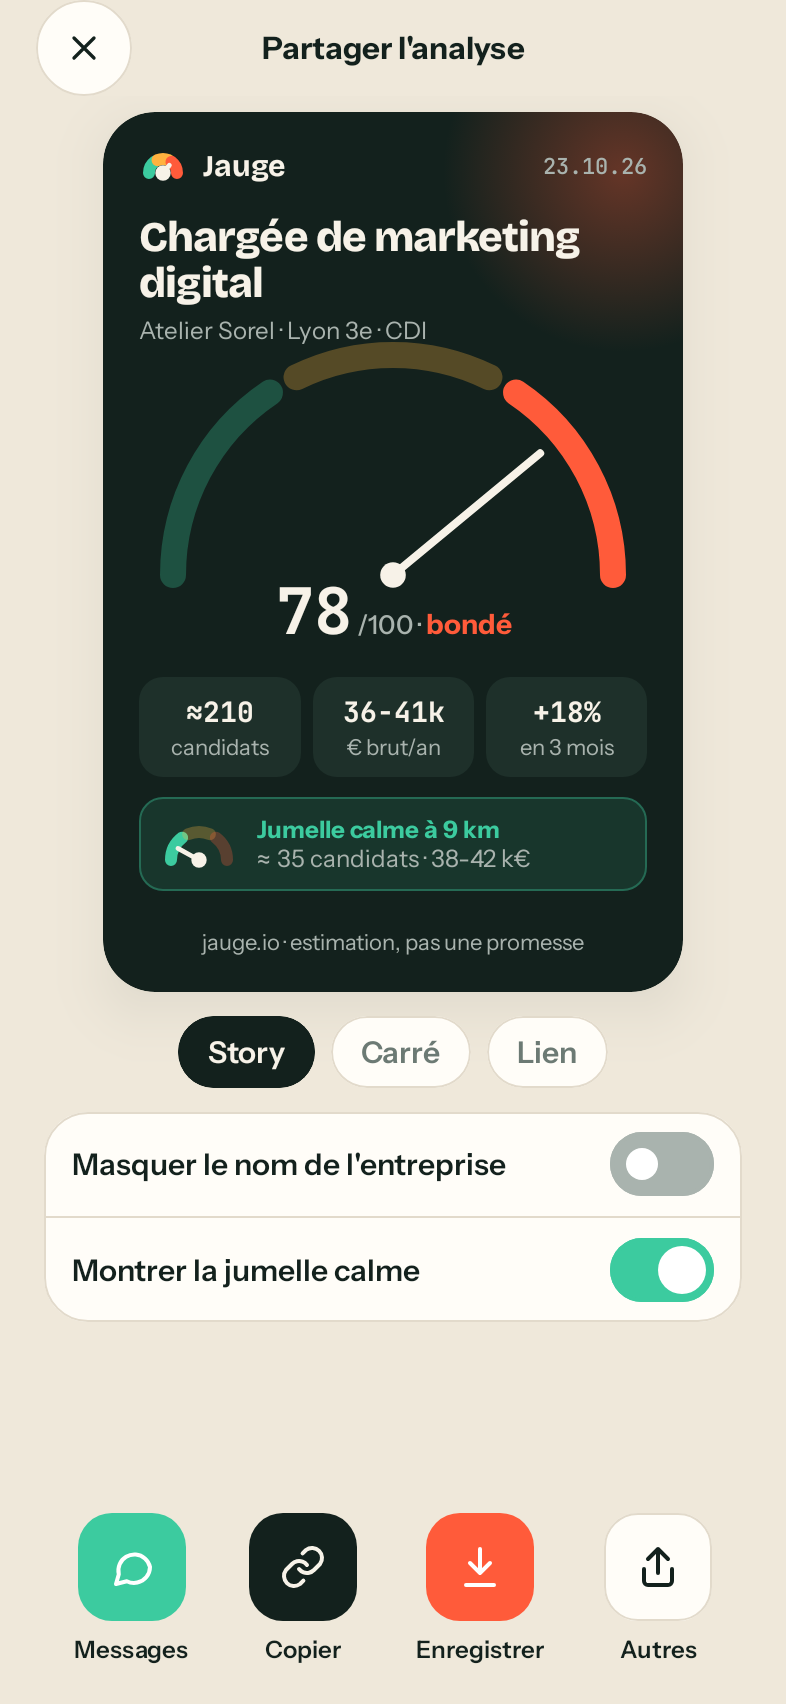
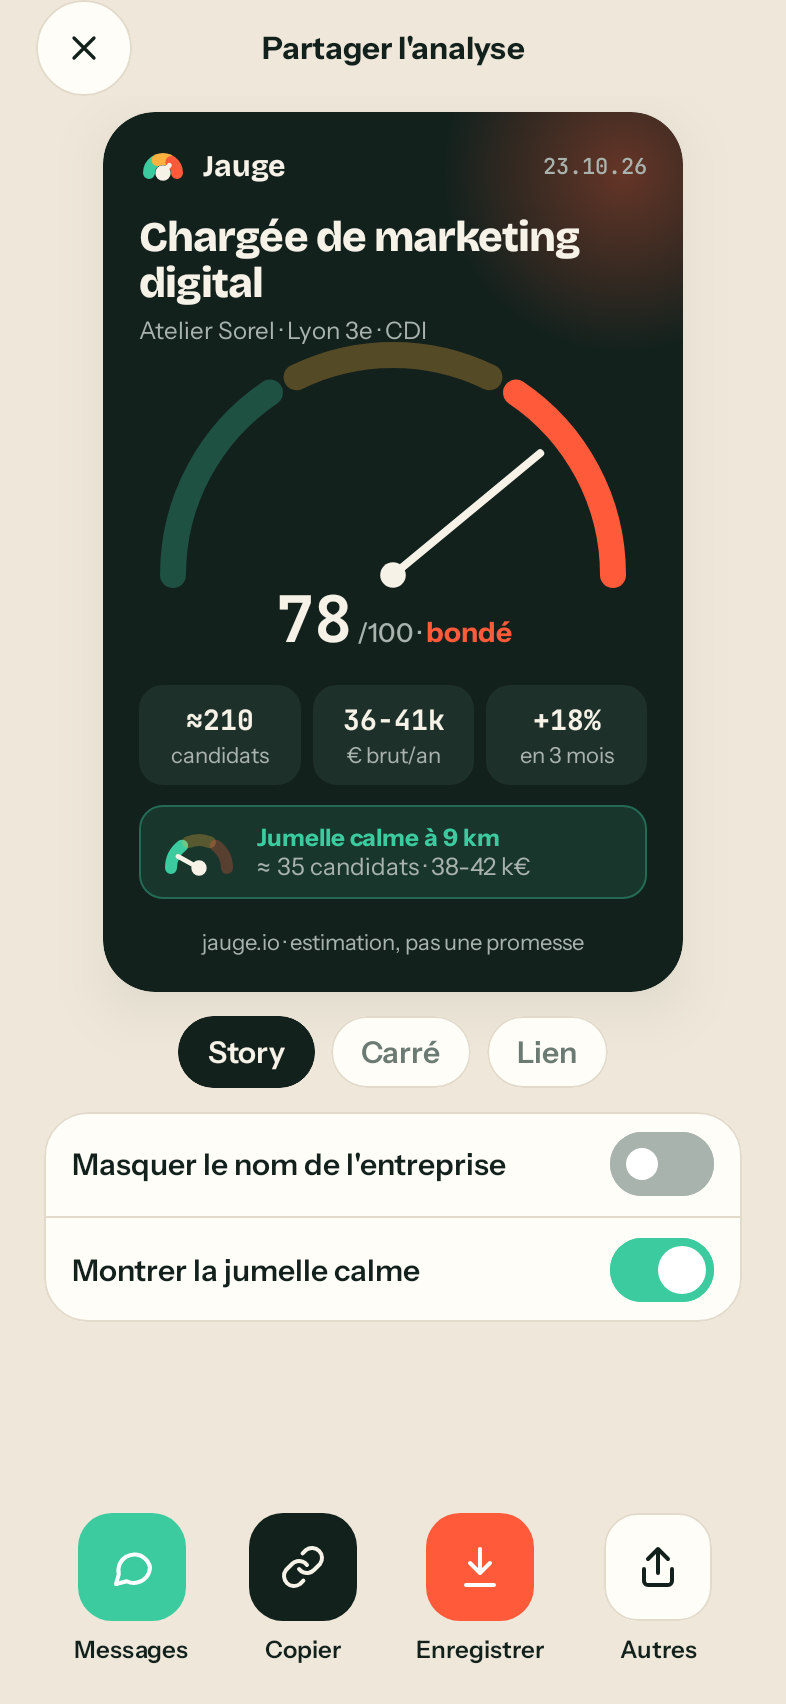
fix: keep the score clear of the needle pivot at any score and text size

diff --git a/feature/verdict/src/androidHostTest/kotlin/io/jauge/feature/verdict/VerdictScreenshotTest.kt b/feature/verdict/src/androidHostTest/kotlin/io/jauge/feature/verdict/VerdictScreenshotTest.kt
@@ -2,6 +2,9 @@ package io.jauge.feature.verdict
 
 import androidx.compose.material3.SnackbarHostState
 import androidx.compose.runtime.Composable
+import androidx.compose.runtime.CompositionLocalProvider
+import androidx.compose.ui.platform.LocalDensity
+import androidx.compose.ui.unit.Density
 import com.github.takahirom.roborazzi.captureRoboImage
 import io.jauge.core.designsystem.theme.JaugeTheme
 import io.jauge.core.ui.state.ContentState
@@ -44,6 +47,33 @@ class VerdictScreenshotTest {
                     isFavorite = true,
                 )
             }
+        }
+    }
+
+    /** Score 19 (the case seen on a phone) with a large system text size, dark theme: the digits stay below the pivot. */
+    @Test
+    fun scoreNineteenLargeTextDark() = scoreCase(score = 19, fontScale = 1.3f, darkTheme = true, name = "04-verdict-score-19-texte-grand-sombre")
+
+    /** Score 19 with a large system text size, light theme. */
+    @Test
+    fun scoreNineteenLargeTextLight() = scoreCase(score = 19, fontScale = 1.3f, darkTheme = false, name = "04-verdict-score-19-texte-grand-clair")
+
+    /** Score 100 (three digits) with the largest system text size, dark theme. */
+    @Test
+    fun scoreHundredLargestTextDark() = scoreCase(score = 100, fontScale = 2f, darkTheme = true, name = "04-verdict-score-100-texte-200-sombre")
+
+    /** Score 0 (needle flat on the left) at the default text size, light theme. */
+    @Test
+    fun scoreZeroLight() = scoreCase(score = 0, fontScale = 1f, darkTheme = false, name = "04-verdict-score-0-clair")
+
+    private fun scoreCase(score: Int, fontScale: Float, darkTheme: Boolean, name: String) = capture(name, darkTheme) {
+        val density = LocalDensity.current
+        CompositionLocalProvider(LocalDensity provides Density(density.density, fontScale)) {
+            VerdictLayout(
+                state = ContentState(content = SampleData.analysis.copy(score = score, percentileInRegion = score), isLoading = false),
+                onBack = {}, onRefresh = {}, onShare = {}, onOpenDetails = {}, onOpenMethodology = {}, onOpenTwins = {}, onOpenTrend = {},
+                animateGauge = false,
+            )
         }
     }
 

diff --git a/feature/verdict/src/commonMain/kotlin/io/jauge/feature/verdict/verdict/VerdictScreen.kt b/feature/verdict/src/commonMain/kotlin/io/jauge/feature/verdict/verdict/VerdictScreen.kt
@@ -31,6 +31,7 @@ import androidx.compose.ui.text.font.FontWeight
 import androidx.compose.ui.text.style.TextAlign
 import androidx.compose.ui.text.style.TextDecoration
 import androidx.compose.ui.text.withStyle
+import androidx.compose.ui.unit.TextUnit
 import androidx.compose.ui.unit.dp
 import androidx.compose.ui.unit.sp
 import androidx.lifecycle.compose.collectAsStateWithLifecycle
@@ -312,8 +313,11 @@ private fun VerdictGaugeCard(analysis: Analysis, onOpenMethodology: () -> Unit, 
                         append(stringResource(Res.string.verdict_score_out_of))
                     }
                 },
-                style = JaugeTheme.typography.numberLarge,
+                // Natural line height: the line box holds the whole glyphs, so the digits never rise into the gauge
+                // and its needle pivot, whatever the score (0 to 100) and the text size of the system.
+                style = JaugeTheme.typography.numberLarge.copy(lineHeight = TextUnit.Unspecified),
                 color = colors.onInverseSurface,
+                modifier = Modifier.padding(top = SCORE_GAP_BELOW_GAUGE),
             )
             val comparison = if (analysis.percentileInRegion >= 50) {
                 stringResource(Res.string.verdict_more_than_offers, analysis.percentileInRegion, analysis.regionName)
@@ -441,3 +445,5 @@ private fun VerdictSkeleton() {
     }
 }
 
+/** Space between the bottom of the gauge (needle pivot) and the score. */
+private val SCORE_GAP_BELOW_GAUGE = 4.dp

diff --git a/core/designsystem/src/commonMain/kotlin/io/jauge/core/designsystem/component/JaugePill.kt b/core/designsystem/src/commonMain/kotlin/io/jauge/core/designsystem/component/JaugePill.kt
@@ -7,6 +7,7 @@ import androidx.compose.foundation.layout.Arrangement
 import androidx.compose.foundation.layout.Box
 import androidx.compose.foundation.layout.Row
 import androidx.compose.foundation.layout.height
+import androidx.compose.foundation.layout.heightIn
 import androidx.compose.foundation.layout.padding
 import androidx.compose.foundation.layout.size
 import androidx.compose.foundation.shape.CircleShape
@@ -42,14 +43,15 @@ fun JaugePill(
 ) {
     Row(
         modifier = modifier
-            .height(26.dp)
+            // Minimum height only: with large system text sizes the label wraps instead of being cut.
+            .heightIn(min = 26.dp)
             .background(containerColor, JaugeTheme.radii.pillShape)
-            .padding(horizontal = 10.dp),
+            .padding(horizontal = 10.dp, vertical = 3.dp),
         horizontalArrangement = Arrangement.spacedBy(6.dp),
         verticalAlignment = Alignment.CenterVertically,
     ) {
         dotColor?.let { Box(Modifier.size(8.dp).background(it, CircleShape)) }
-        Text(text = text, style = JaugeTheme.typography.pill, color = contentColor, maxLines = 1)
+        Text(text = text, style = JaugeTheme.typography.pill, color = contentColor)
     }
 }
 

diff --git a/feature/share/src/commonMain/kotlin/io/jauge/feature/share/share/ShareCard.kt b/feature/share/src/commonMain/kotlin/io/jauge/feature/share/share/ShareCard.kt
@@ -31,6 +31,7 @@ import androidx.compose.ui.text.font.FontWeight
 import androidx.compose.ui.text.style.TextAlign
 import androidx.compose.ui.text.style.TextOverflow
 import androidx.compose.ui.text.withStyle
+import androidx.compose.ui.unit.TextUnit
 import androidx.compose.ui.unit.dp
 import androidx.compose.ui.unit.sp
 import io.jauge.core.designsystem.component.GaugeLevel
@@ -196,10 +197,11 @@ private fun ColumnScope.GaugeCardBody(analysis: Analysis, calmTwin: TwinOffer?, 
         )
         Text(
             text = score,
-            style = JaugeTheme.typography.body,
+            // Natural line height: the large digits stay below the needle pivot at any text size.
+            style = JaugeTheme.typography.body.copy(lineHeight = TextUnit.Unspecified),
             color = colors.textPrimary,
             textAlign = TextAlign.Center,
-            modifier = Modifier.fillMaxWidth(),
+            modifier = Modifier.fillMaxWidth().padding(top = 4.dp),
         )
     } else {
         Row(modifier = Modifier.padding(top = 10.dp), verticalAlignment = Alignment.Bottom, horizontalArrangement = Arrangement.spacedBy(12.dp)) {
